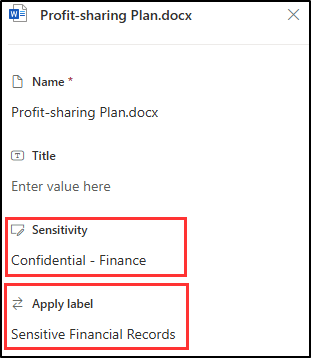
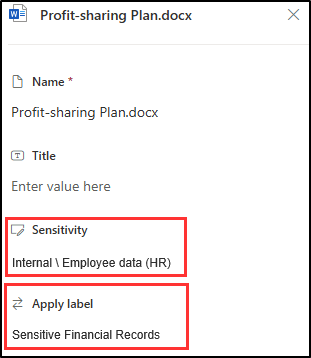
Updated labs 4 - 7

Changed region(s): [[0.0289, 0.7067, 0.5498, 0.7682], [0.0289, 0.9218, 0.5788, 0.9525]]

diff --git a/Instructions/Labs/Lab4_Ex1_insider_risk_management.md b/Instructions/Labs/Lab4_Ex1_insider_risk_management.md
@@ -48,11 +48,13 @@ In this task, you'll assign Joni Sherman the Insider Risk Management role so she
 
 1. On the **Role groups for Microsoft Purview solutions** page, select **Insider Risk Management**.
 
-1. On the **Insider Risk Management** flyout panel on the right, select **Add member**.
+1. On the **Insider Risk Management** flyout panel, select the **Members** tab. Select **+ Add member**, then select **Choose users**.
 
-1. On the **Add member** flyout panel, search for `Joni`, then select the checkbox for **Joni Sherman**.
+1. On the **Choose users** flyout panel, search for `Joni`, then select the checkbox for **Joni Sherman**.
 
-1. Select **Add** at the bottom of the panel.
+1. Select **Select** at the bottom of the panel.
+
+1. Select **Done**, then select **Confirm** to update the role group.
 
 1. Back on the **Insider Risk Management** flyout panel, verify **Joni Sherman** appears as a member, then close the flyout.
 
@@ -103,7 +105,7 @@ In this task, you'll create a policy from the Data leaks template to detect risk
 
 1. On the **Exclude users and groups (optional) (preview)** page, select **Next**.
 
-1. On the **Decide whether to prioritize content** page, select **Next**.
+1. On the **Decide whether to prioritize content** page, select **I don't want to prioritize content right now**, then select **Next**.
 
 1. On the **Choose triggering event for this policy** page, review the available sequences. The sequences listed here rely on the indicators you enabled in Task 2 — each one combines multiple signals to detect coordinated data movement.
 

diff --git a/Instructions/Labs/Lab7_Ex1_validation.md b/Instructions/Labs/Lab7_Ex1_validation.md
@@ -57,7 +57,7 @@ In this task, you'll verify that published sensitivity labels are available to u
 
 1. Select **Cancel** to keep the sensitivity label.
 
-1. In the upper left of the document, select **Document** to rename this file, and rename it to `HR Document`. Press Enter to apply this name change.
+1. In the upper-left corner of the document, select the document name (**Important HR employee document**) and rename the file to `HR Document`. Press Enter to apply this name change.
 
     ![Screenshot showing where to rename a file in Word on the web.](../Media/rename-web-word-file.png)
 
@@ -114,7 +114,7 @@ To test your retention configuration, you'll apply a retention label to a docume
    ![Screenshot showing where to select document details in SharePoint.](../Media/sharepoint-details.png)
 
 1. In the **Details** panel, update the following fields:
-   - **Sensitivity**: Internal > Financial Data
+   - **Sensitivity**: Internal \ Employee data (HR)
    - **Apply label**: Sensitive Financial Records
 
      ![Screenshot showing sensitivity label and retention label applied in SharePoint.](../Media/sharepoint-choose-labels.png)

diff --git a/Instructions/Labs/Lab5_Ex2_content_search.md b/Instructions/Labs/Lab5_Ex2_content_search.md
@@ -43,11 +43,13 @@ In this task, you'll assign eDiscovery permissions to Joni Sherman so she can pe
 
 1. On the **Role groups for Microsoft Purview solutions** page, search for `eDiscovery`, then select **eDiscovery Manager**.
 
-1. On the **eDiscovery Manager** flyout panel, select **Add Manager**.
+1. On the **eDiscovery Manager** flyout panel, select the **Members** tab. Select **+ Add Managers**, then select **Choose users**.
 
-1. On the **Add Manager** flyout page, search for `Joni`, then select the checkbox for **Joni Sherman**. Select **Add** at the bottom of the panel.
+1. On the **Choose users** flyout page, search for `Joni`, then select the checkbox for **Joni Sherman**. Select **Select** at the bottom of the panel.
 
-1. Back on the **eDiscovery Manager** flyout panel, verify **Joni Sherman** appears under **Manager**, then close the flyout.
+1. Back on the **eDiscovery Manager** flyout panel, verify **Joni Sherman** appears under **Manager**, then select **Done**. 
+
+1. Select **Confirm** to update the role group.
 
 1. Close the InPrivate window.
 

diff --git a/Instructions/Labs/Lab4_Ex2_adaptive_protection.md b/Instructions/Labs/Lab4_Ex2_adaptive_protection.md
@@ -37,7 +37,7 @@ You are Joni Sherman, the Information Security Administrator for Contoso Ltd. Yo
 
 1. On the **Insider risk levels** page:
 
-   - In the **Insider risk policy** dropdown, select the **Data leaks quick policy** you created in a previous exercise.
+   - In the **Insider risk policy** dropdown, select the **Data leaks policy** you created in a previous exercise.
    - Leave the default risk level settings unchanged.
    - Select **Save**.
 
@@ -134,7 +134,7 @@ In this final task, you'll turn on Adaptive Protection so the system can start a
 
 1. Confirm your configurations:
 
-   - On the **Insider risk levels** tab, the **Data leaks quick policy** is selected.
+   - On the **Insider risk levels** tab, the **Data leaks policy** is selected.
 
    - On the **Conditional Access** tab, the **Block all access for elevated risk** policy is visible.
 

diff --git a/Instructions/Labs/Lab6_Ex1_dspm_for_ai.md b/Instructions/Labs/Lab6_Ex1_dspm_for_ai.md
@@ -86,7 +86,7 @@ Contoso is preparing for broader Copilot and AI adoption, and wants to find cont
 
 1. Select **Next**.
 
-1. On the **Select Scan level** page, leave **Site-level** selected, then select **Next**.
+1. On the **Select scan level** page, leave **Source-level (always on)** selected, then select **Next**.
 
 1. On the **Add users** page, select **All**, then select **Next**.
 
